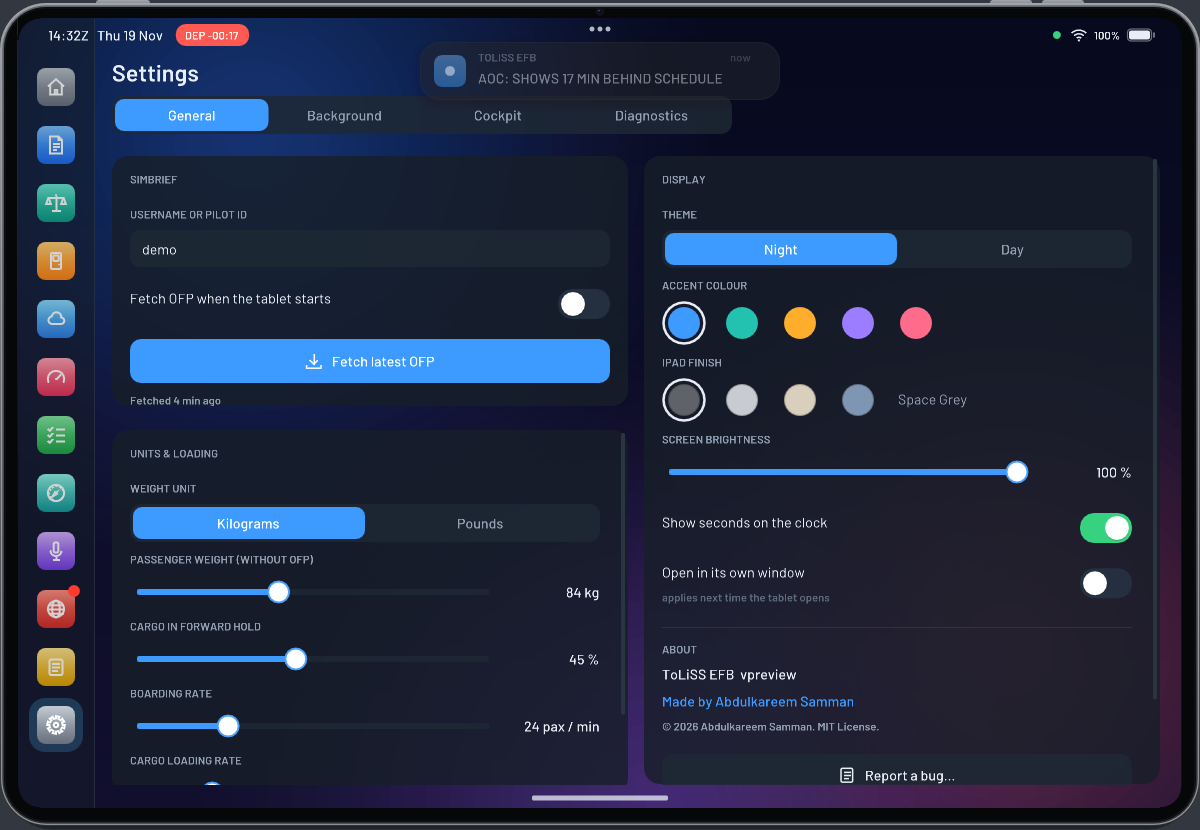
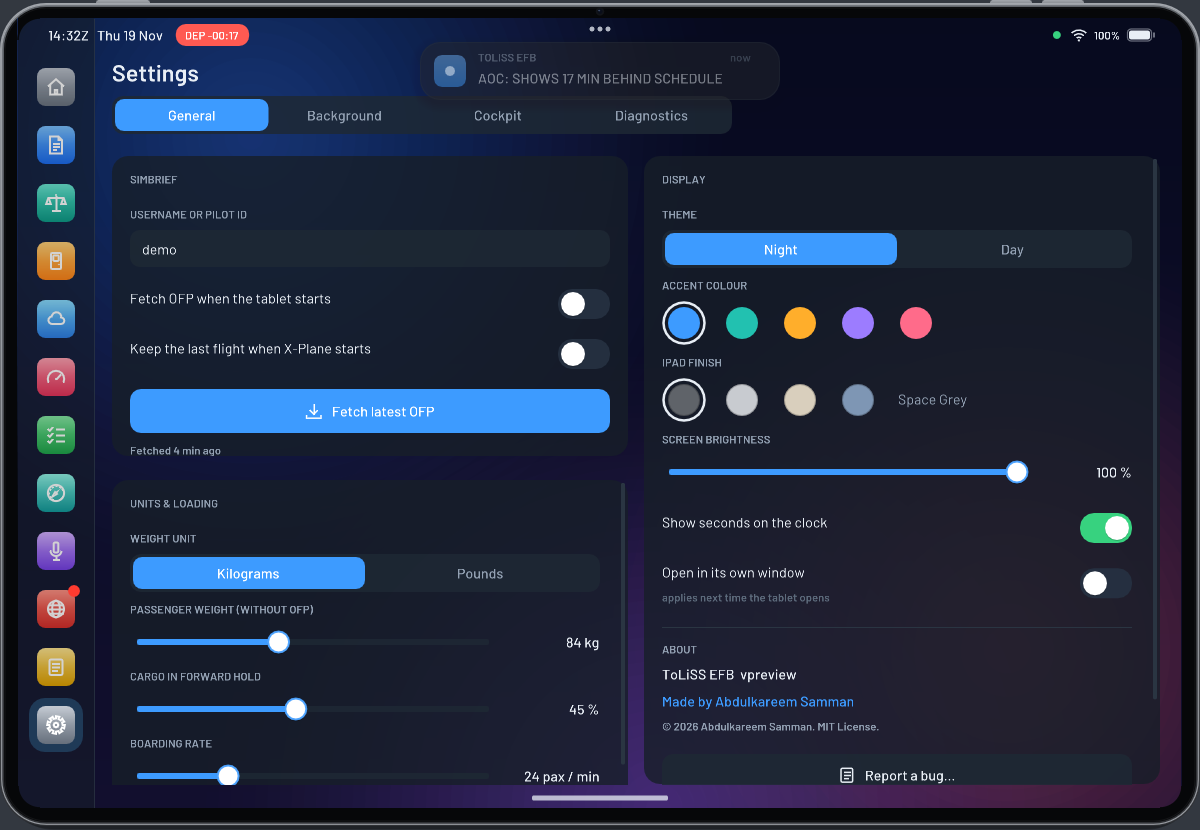
ToLiSS EFB v1.9.1

diff --git a/README.md b/README.md
@@ -33,7 +33,7 @@ Everything is drawn in code and nothing is copied from any other product.
 | App | What it does |
 |---|---|
 | **Home** | An iPadOS Home Screen. Widgets: analog UTC clock, today's flight (route, OUT/OFF/ON/IN, block fuel, arrival stand), departure countdown ring (after departure: the **live ETA** from where the aircraft is, distance to go and minutes early or late), weather and live aircraft weights, pax, doors and CG. Tap a widget to open its app. App icons sit beside the widgets, and the dock at the bottom holds your favourite apps plus the ones you used last. |
-| **Flight Plan** | Fetches your latest **SimBrief** OFP. Has Summary, Navlog, Fuel breakdown (stacked bar), Weights vs. limits and the full OFP text. The OFP is cached, so it's still there after a restart. |
+| **Flight Plan** | Fetches your latest **SimBrief** OFP. Has Summary, Navlog, Fuel breakdown (stacked bar), Weights vs. limits and the full OFP text. Every X-Plane start begins with no flight (the last one is deleted), unless you turn on *Settings > Keep the last flight when X-Plane starts*. |
 | **Loadsheet** | Plan pax, forward and aft cargo and block fuel (from the OFP or by hand). Loads the aircraft **instantly** or **realistically**: boarding, cargo and refuelling run over time with progress bars, pause and stop. Shows planned vs. actual ZFW/TOW/LW against MZFW/MTOW/MLW, and prints a final loadsheet. |
 | **Ground Ops** | Top-down aircraft diagram: tap a door to open or close it. Doors follow the aircraft's real door position, so a door opened from the ToLiSS ISCS shows as open, and doors swing on the diagram while moving. **Ground Power, Wheel Chocks, HP Air and LP Air** are found automatically on your aircraft. The **ToLiSS vehicles** tab drives the aircraft's own passenger stairs (1L, 2L), catering trucks (1R, 2R) and baggage loaders. **Customize** chooses which services are shown and which dataref each one uses. If a vehicle doesn't respond, press **Learn** next to it and switch it in the aircraft (for example on the ToLiSS ISCS doors page): the tablet watches what changes and uses that. |
 | **Weather** | METAR and TAF from aviationweather.gov, with quick chips for origin, destination, alternate and nearest. Decodes wind, visibility, ceiling, temperature and QNH, and shows a flight-category badge. |

diff --git a/CHANGELOG.md b/CHANGELOG.md
@@ -3,6 +3,9 @@
 Each version has a one-line summary (used for the Discord announcements and the release list)
 followed by the details.
 
+## 1.9.1 - 2026-11-21 - A clean start every time
+- When X-Plane starts, the last flight is deleted, so no old flight shows up hours late. Turn on Settings > Keep the last flight when X-Plane starts to keep it
+
 ## 1.9.0 - 2026-11-21 - Update notice on the Home screen
 - When a new version is waiting, a banner on the Home screen says so, with What's new (the release notes) and Later
 
